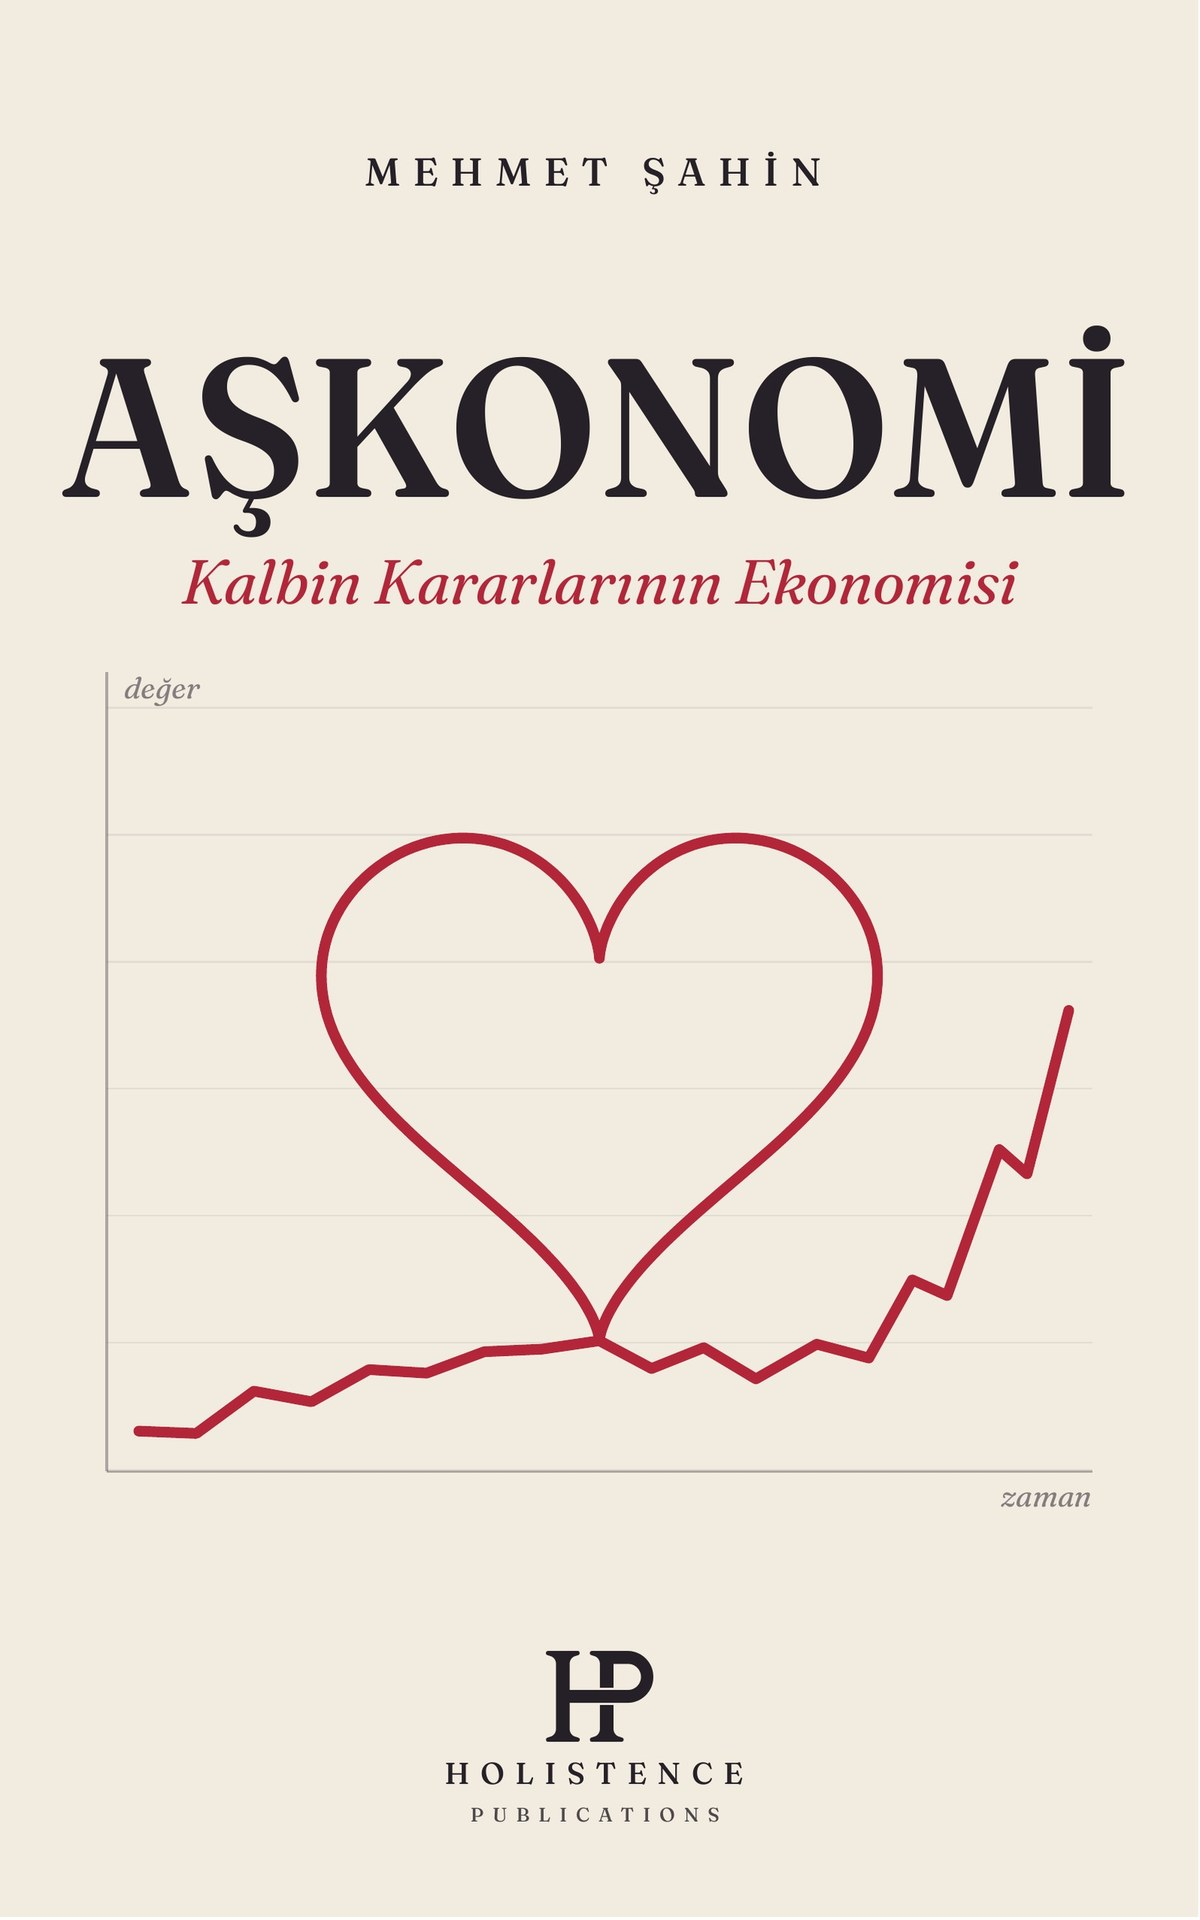
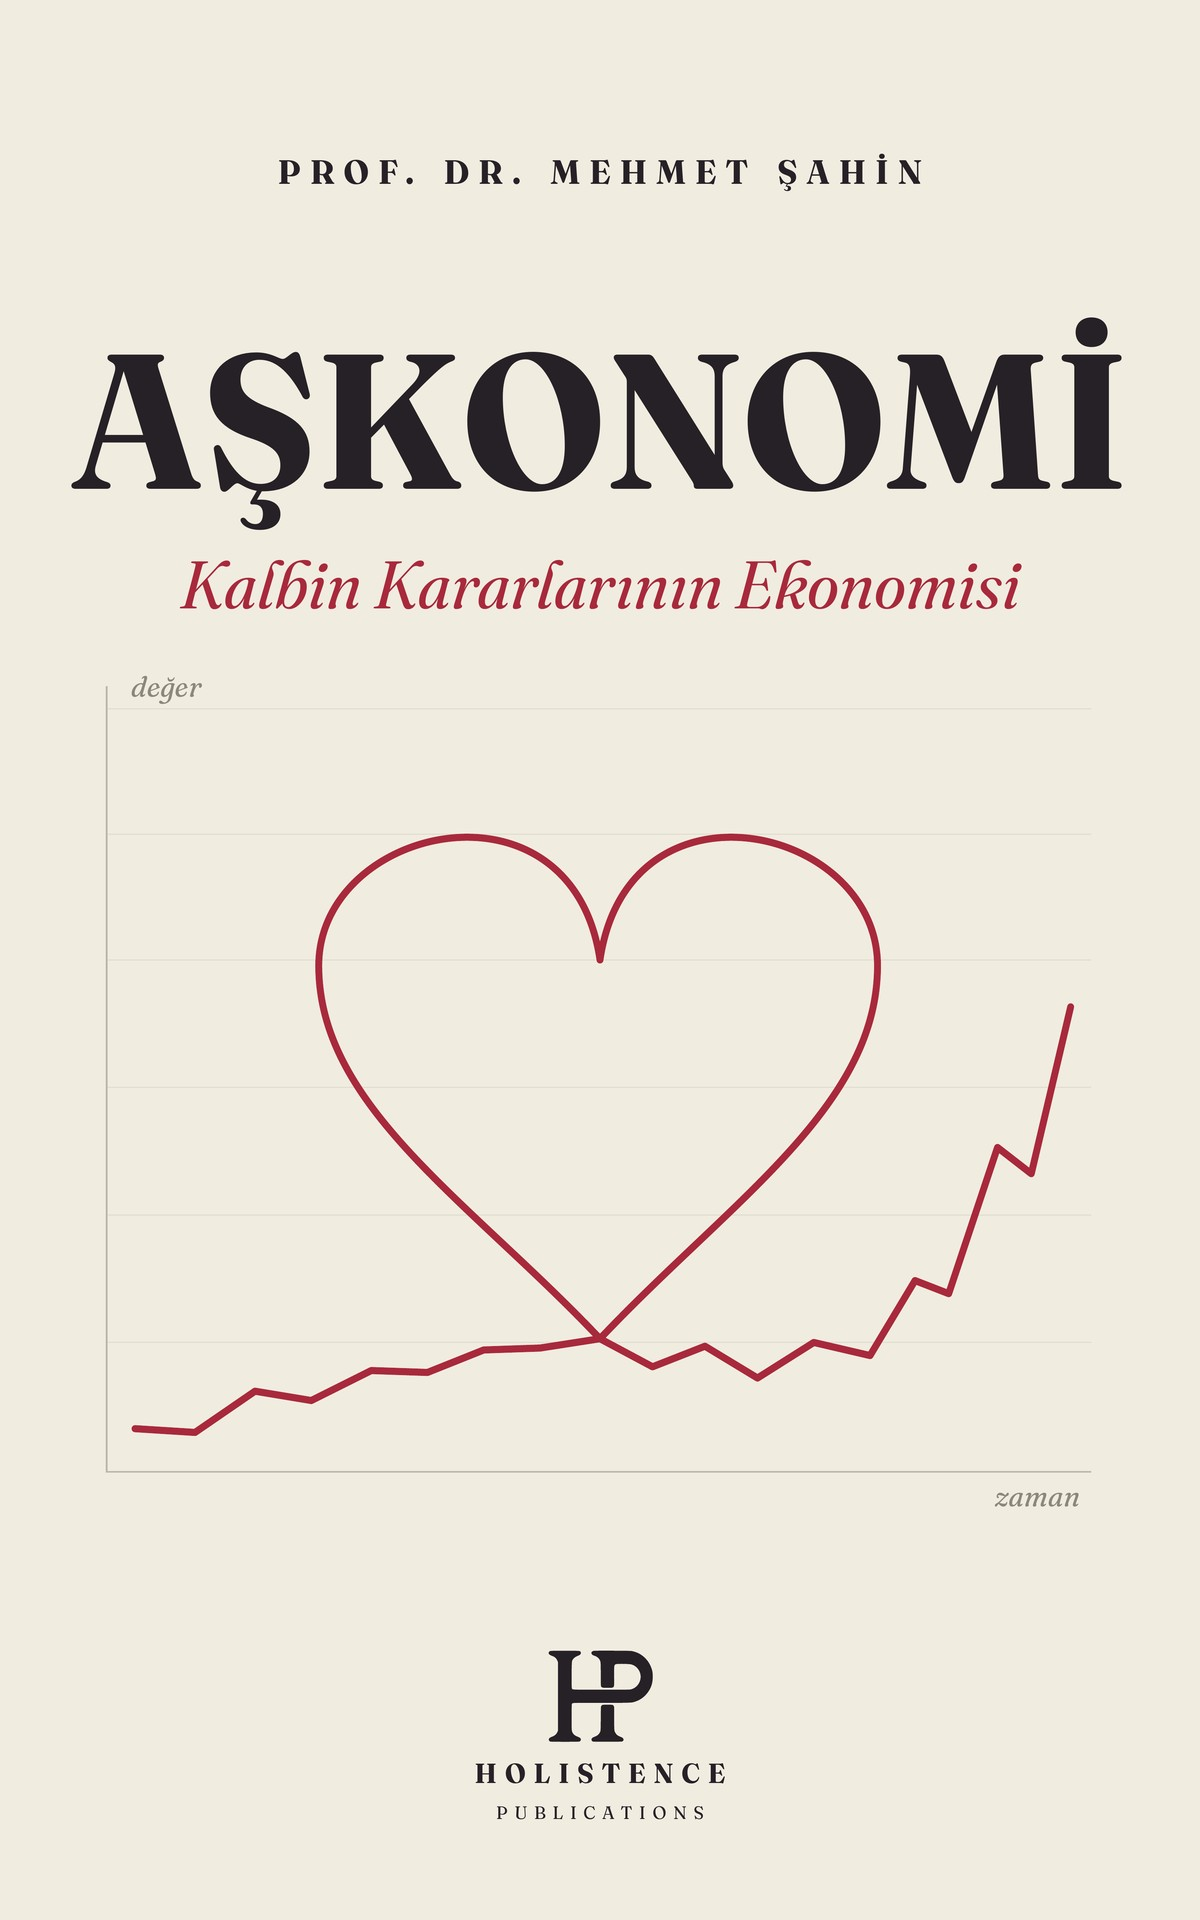
Kapakları yeni tasarımla güncelle (Prof. Dr. unvanı)
Claude-Session: https://claude.ai/code/session_01TWUtYZdCXTdvvoYTSQqFxN

diff --git a/index.html b/index.html
@@ -3,10 +3,10 @@
 <head>
 <meta charset="utf-8">
 <meta name="viewport" content="width=device-width,initial-scale=1">
-<title>Aşkonomi — Kalbin Kararlarının Ekonomisi · Mehmet Şahin</title>
+<title>Aşkonomi — Kalbin Kararlarının Ekonomisi · Prof. Dr. Mehmet Şahin</title>
 <meta name="description" content="Aşkonomi: Elini tutan görünmez el. Prof. Dr. Mehmet Şahin'in aşkı ekonominin gözüyle okuyan yeni kitabı. Holistence Publications. Yakında.">
 <meta property="og:title" content="Aşkonomi — Elini tutan görünmez el">
-<meta property="og:description" content="Kalbin kararlarının ekonomisi. Mehmet Şahin · Holistence Publications · Yakında">
+<meta property="og:description" content="Kalbin kararlarının ekonomisi. Prof. Dr. Mehmet Şahin · Holistence Publications · Yakında">
 <meta property="og:image" content="https://askonomi.com/img/paylasim.jpg">
 <meta property="og:url" content="https://askonomi.com/">
 <meta property="og:type" content="book">
@@ -18,7 +18,7 @@
 <link rel="preconnect" href="https://fonts.googleapis.com"><link rel="preconnect" href="https://fonts.gstatic.com" crossorigin>
 <link href="https://fonts.googleapis.com/css2?family=Fraunces:ital,opsz,wght@0,9..144,400;0,9..144,500;0,9..144,600;1,9..144,400&family=Crimson+Pro:ital,wght@0,400;0,500;1,400&display=swap" rel="stylesheet">
 <script type="application/ld+json">
-{"@context":"https://schema.org","@type":"Book","name":"Aşkonomi: Kalbin Kararlarının Ekonomisi","alternateName":"The Invisible Hand That Holds Yours: The Economics of the Heart's Decisions","author":{"@type":"Person","name":"Mehmet Şahin","url":"https://profmehmetsahin.com"},"publisher":{"@type":"Organization","name":"Holistence Publications"},"inLanguage":["tr","en"],"image":"https://askonomi.com/img/kapak-tr-buyuk.jpg","url":"https://askonomi.com/","sameAs":["https://www.instagram.com/askonomikitap/","https://x.com/askonomikitap","https://www.facebook.com/profile.php?id=61595016265183","https://www.tiktok.com/@askonomikitap","https://www.youtube.com/@askonomikitap"]}
+{"@context":"https://schema.org","@type":"Book","name":"Aşkonomi: Kalbin Kararlarının Ekonomisi","alternateName":"The Invisible Hand That Holds Yours: The Economics of the Heart's Decisions","author":{"@type":"Person","name":"Mehmet Şahin","honorificPrefix":"Prof. Dr.","url":"https://profmehmetsahin.com"},"publisher":{"@type":"Organization","name":"Holistence Publications"},"isbn":"9786255626905","inLanguage":["tr","en"],"image":"https://askonomi.com/img/kapak-tr-buyuk.jpg","url":"https://askonomi.com/","sameAs":["https://www.instagram.com/askonomikitap/","https://x.com/askonomikitap","https://www.facebook.com/profile.php?id=61595016265183","https://www.tiktok.com/@askonomikitap","https://www.youtube.com/@askonomikitap"]}
 </script>
 <style>
 :root{--zemin:#F2EBE0;--zemin2:#EAE1D3;--murekkep:#262028;--soluk:#6b6070;--bordo:#B3263A;--cizgi:#d8ccbb}
@@ -165,7 +165,7 @@ ol.bolumler li.sonuk{opacity:.25}
 <main>
 <div class="wrap hero">
  <div>
-  <span class="ust">Mehmet Şahin</span>
+  <span class="ust">Prof. Dr. Mehmet Şahin</span>
   <h1 lang="tr">Aşkonomi</h1>
   <h1 lang="en" class="en">The Invisible Hand That Holds Yours</h1>
   <p class="alt"><span lang="tr">Kalbin Kararlarının Ekonomisi</span><span lang="en">The Economics of the Heart’s Decisions</span></p>
@@ -342,7 +342,7 @@ ol.bolumler li.sonuk{opacity:.25}
  var h=document.documentElement,q=new URLSearchParams(location.search).get('lang'),k;
  try{k=localStorage.getItem('dil')}catch(e){}
  var l=q||k||((navigator.language||'tr').slice(0,2)==='tr'?'tr':'en');
- function set(x){h.setAttribute('data-lang',x);h.lang=x;document.title=x==='tr'?'Aşkonomi — Kalbin Kararlarının Ekonomisi · Mehmet Şahin':'The Invisible Hand That Holds Yours — The Economics of the Heart’s Decisions · Mehmet Şahin';document.querySelectorAll('[data-ph-tr]').forEach(function(i){i.placeholder=i.getAttribute('data-ph-'+x)});try{localStorage.setItem('dil',x)}catch(e){}}
+ function set(x){h.setAttribute('data-lang',x);h.lang=x;document.title=x==='tr'?'Aşkonomi — Kalbin Kararlarının Ekonomisi · Prof. Dr. Mehmet Şahin':'The Invisible Hand That Holds Yours — The Economics of the Heart’s Decisions · Prof. Dr. Mehmet Şahin';document.querySelectorAll('[data-ph-tr]').forEach(function(i){i.placeholder=i.getAttribute('data-ph-'+x)});try{localStorage.setItem('dil',x)}catch(e){}}
  set(l==='en'?'en':'tr');
  document.getElementById('dil').onclick=function(){set(h.getAttribute('data-lang')==='tr'?'en':'tr')};
  var io=new IntersectionObserver(function(es){es.forEach(function(e){if(e.isIntersecting){e.target.classList.add('goster');io.unobserve(e.target)}})},{threshold:.12});
